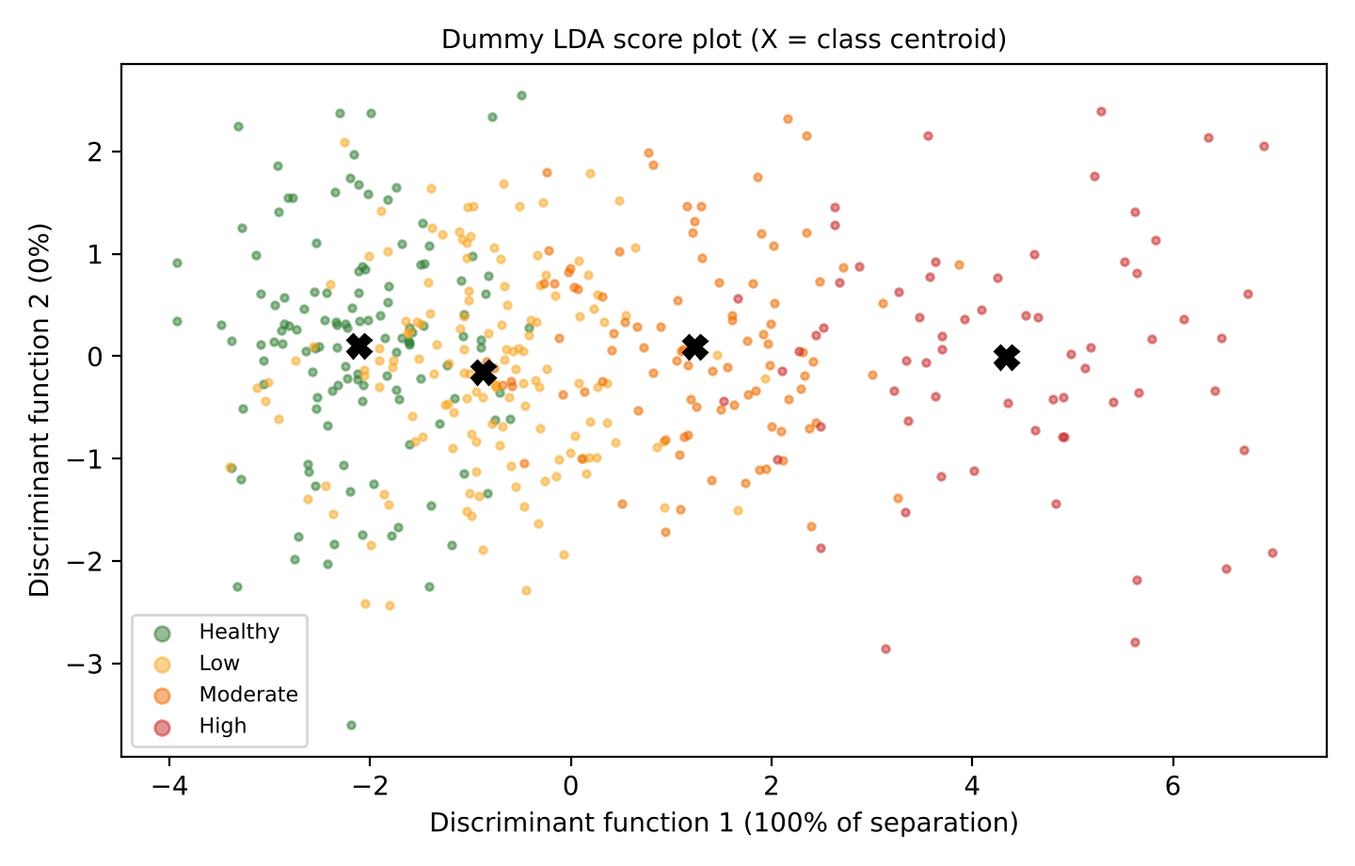
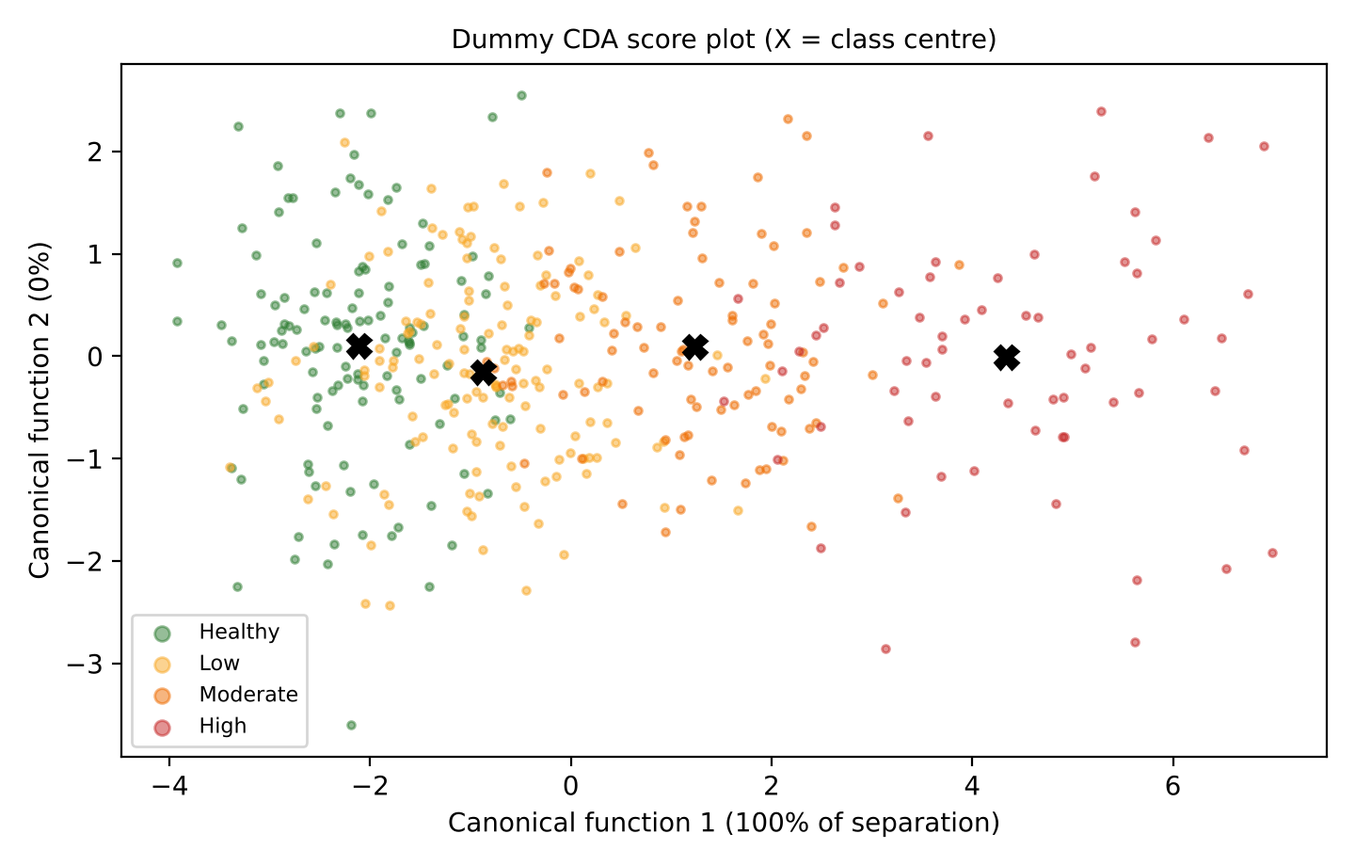
Use stepwise canonical discriminant analysis (CDA) naming in Step 1.5
Claude-Session: https://claude.ai/code/session_0128NVEiaLXPTL1RNqi5Ud7D

diff --git a/thesis_build/final/f_body.js b/thesis_build/final/f_body.js
@@ -3,7 +3,7 @@ K.push(new Paragraph({ alignment: AlignmentType.CENTER, spacing: { before: 900, 
 K.push(new Paragraph({ alignment: AlignmentType.CENTER, spacing: { after: 120 }, children: [new TextRun({ text: 'Final step-wise methodology', font: FONT, size: 30, color: '2C5F2D' })] }));
 K.push(new Paragraph({ alignment: AlignmentType.CENTER, spacing: { after: 500 }, children: [new TextRun({ text: 'Ph.D. (Agricultural Physics), ICAR-IARI  |  UAV RGB, multispectral, hyperspectral and thermal data  |  4-class severity classification and disease-index regression', font: FONT, size: 20, italics: true, color: '555555' })] }));
 K.push(NOTE(`**How each step is written.** Every step has the same parts: **Position** (which step it comes after and which step uses its output), **Concept**, **Why it is needed at this position**, **Importance and justification** (why this method, with references), **How it is done**, **How it is used with my data**, a **figure or table with dummy data**, the **Output**, **Notes** on other methods with references, **Interview questions**, and **References** for the step. Dummy data only illustrate what the results will look like; they are not results.`));
-K.push(KEY('The methodology in two minutes:', `White rust changes pigments, leaf structure, water status, transpiration and canopy texture; each UAV sensor sees part of this. **Common steps** build a pooled table of plot-dates from a 72-plot field experiment, with the disease index (DI) and four classes: **Healthy (DI = 0), Low (0 < DI ≤ 25%), Moderate (25 < DI ≤ 50%), High (DI > 50%)**. **Objective 1** finds, for each sensor, the features that respond to white rust: ANOVA and correlation with DI, a hyperspectral correlation scalogram with ReliefF, a White Rust Index, a stepwise discriminant analysis between the classes, and Boruta, giving disease-specific feature (DSF) pools for classification and for DI regression. **Objective 2** reduces each pool with VIF and ML-SFFS and compares six models on each sensor and on four sensor combinations (ML-SFFS fusion and two deep-learning fusions). **Objective 3** repeats the classification with data from before symptoms. Every selection and tuning step is done inside training replications (leave-one-replication-out), and the final models are tested at Bharatpur and in farmers' fields.`));
+K.push(KEY('The methodology in two minutes:', `White rust changes pigments, leaf structure, water status, transpiration and canopy texture; each UAV sensor sees part of this. **Common steps** build a pooled table of plot-dates from a 72-plot field experiment, with the disease index (DI) and four classes: **Healthy (DI = 0), Low (0 < DI ≤ 25%), Moderate (25 < DI ≤ 50%), High (DI > 50%)**. **Objective 1** finds, for each sensor, the features that respond to white rust: ANOVA and correlation with DI, a hyperspectral correlation scalogram with ReliefF, a White Rust Index, a stepwise canonical discriminant analysis (CDA) between the classes, and Boruta, giving disease-specific feature (DSF) pools for classification and for DI regression. **Objective 2** reduces each pool with VIF and ML-SFFS and compares six models on each sensor and on four sensor combinations (ML-SFFS fusion and two deep-learning fusions). **Objective 3** repeats the classification with data from before symptoms. Every selection and tuning step is done inside training replications (leave-one-replication-out), and the final models are tested at Bharatpur and in farmers' fields.`));
 K.push(new TableOfContents('Contents', { hyperlink: true, headingStyleRange: '1-2' }));
 K.push(new Paragraph({ children: [new PageBreak()] }));
 
@@ -27,7 +27,7 @@ K.push(...tab2('choice', [
   ['Univariate statistics', 'One-way ANOVA + Tukey HSD; Pearson r with DI', 't-test only (Zhang 2012a; Tian 2021); Dunnett test (Liu 2024)', 'Four classes need a multi-group test; ANOVA + Tukey is the standard, easily explained choice in agricultural research (Gomez and Gomez 1984)'],
   ['HS band selection', 'Correlation scalogram + ReliefF; one band per correlated region', 'Separability scalogram (Tian 2021); SPA (Zhu 2017); PCA/PLSR loadings (Shukla 2024)', 'Classes overlap: a DI-based scalogram needs no class limits (regression) and ReliefF is built for overlapping multi-class data (classification); used for mustard (Shukla 2024) and severity (Meng 2020)'],
   ['Disease index', 'White Rust Index (ND + wR)', 'General indices only; ROTI (Bhattacharya 2013); RBI (Mandal 2023)', 'Disease-specific index reduces confusion with other stresses (Mahlein 2013)'],
-  ['Class discrimination', 'Two-step stepwise discriminant analysis (LDA)', 'FLDA (Zhang 2012a); CART + JM (Das 2020)', 'Mustard precedent (Bhattacharya 2013); simple, interpretable functions and a score plot of the classes'],
+  ['Class discrimination', 'Two-step stepwise canonical discriminant analysis (CDA)', 'FLDA (Zhang 2012a); CART + JM (Das 2020)', 'Mustard precedent (Bhattacharya 2013); simple, interpretable functions and a score plot of the classes'],
   ['Relevant features', 'Boruta per sensor and task', 'RFE (Liu 2024); correlation filter (Guo 2021)', 'All-relevant, non-linear, statistically tested (Kursa and Rudnicki 2010; Mustafa 2023)'],
   ['Optimum subset', 'VIF < 10 → ML-SFFS', 'SPA (Huang 2020); full feature set', 'Removes redundancy then finds compact subsets; 2–4 features were enough in Tian 2021'],
   ['Models', 'SVM/SVR, RF/RFR, k-NN, PLSR, DNN-F1, DNN-F2', 'BPNN, ELM, LS-SVM (Zhu 2017); MARS (Mandal 2023); 3D-CNN (Nguyen 2023)', 'Cover kernel, tree, instance, linear and deep families; all used in the core papers'],
@@ -43,7 +43,7 @@ K.push(...tab2('overlaptab', [
   ['Ground truth', 'Five sampling points per plot, same trained scorer, explicit class limits (0 < DI ≤ 25, 25 < DI ≤ 50, DI > 50) to reduce label noise near the limits', 'A2', 'Rater error in visual severity (Bock et al., 2010); DI from a multi-point survey (Liu et al., 2024)'],
   ['Feature screening', 'Correlation with continuous DI instead of class-separability thresholds, so no class limit is needed', '1.2, 1.3', 'Correlation with severity (Shukla et al., 2024; Guo et al., 2021); thresholds suit only non-overlapping stages (Tian et al., 2021)'],
   ['Disease-specific feature', 'White Rust Index built for white rust rather than general greenness', '1.4', 'Disease indices improved severity classification by 8.3% over the best published index (Meng et al., 2020; Mahlein et al., 2013)'],
-  ['Multivariate separation', 'Discriminant analysis combines several features into functions that separate classes better than any single feature', '1.5', 'Stepwise discriminant analysis for mustard rot classes (Bhattacharya and Chattopadhyay, 2013); FLDA for three severity levels (Zhang et al., 2012a)'],
+  ['Multivariate separation', 'Canonical discriminant analysis combines several features into functions that separate classes better than any single feature', '1.5', 'Stepwise discriminant analysis for mustard rot classes (Bhattacharya and Chattopadhyay, 2013); FLDA for three severity levels (Zhang et al., 2012a)'],
   ['Complementary information', 'Combining feature types and sensors (spectra, derivatives, texture, temperature) through ML-SFFS fusion and DNN fusion', '2.1, 2.3', 'Combining feature types improved severity classification by about 7% (Lv et al., 2023); fusion raised accuracy (Feng et al., 2022; Mahlein et al., 2019)'],
   ['Models suited to overlap', 'Soft-margin SVM (C tolerates overlapping samples), RF and k-NN; class weights for unequal classes', '2.2', 'Cortes and Vapnik (1995); Breiman (2001); macro-F1 and class weighting (Lv et al., 2023)'],
   ['Regression alongside classification', 'DI regression gives a continuous estimate; classes derived from predicted DI are compared with direct classification', '2.3, 2.4', 'DI regression of disease severity (Liu et al., 2024; Guo et al., 2021; Feng et al., 2022)'],
@@ -154,7 +154,7 @@ FSTEP({ title: 'Step 1.2. Univariate response of every feature to the four class
  refs: `Gomez and Gomez (1984); Tukey (1949); Zhang et al. (2012a); Liu et al. (2024).` });
 
 FSTEP({ title: 'Step 1.3. Hyperspectral band-level analysis',
- pos: `After Step 1.1 (HS band features), HS only; before Steps 1.4 (ReliefF ranking reused for the White Rust Index), 1.5 (band step of the discriminant analysis) and 1.6 (Boruta).`,
+ pos: `After Step 1.1 (HS band features), HS only; before Steps 1.4 (ReliefF ranking reused for the White Rust Index), 1.5 (band step of the CDA) and 1.6 (Boruta).`,
  concept: `Two complementary band rankings are made. A **correlation scalogram** plots Pearson's r between DI and the reflectance (and first and second derivative) at every wavelength, showing which regions change steadily with severity. **ReliefF** gives every band a weight for how well it separates neighbouring samples of different classes (Healthy, Low, Moderate, High). Neighbouring bands are almost identical, so from each list only **one band per correlated region** is kept.`,
  need: `1443 band features cannot enter a discriminant analysis or a model directly: they are redundant and outnumber the plots.`,
  just: `The severity classes are cuts of a continuous DI and overlap. A DI-based correlation needs no class limits and serves DI regression; ReliefF is designed for noisy, overlapping, multi-class data and serves classification (Kononenko, 1994; Robnik-Šikonja and Kononenko, 2003). Separability scalograms (Tian et al., 2021) need two well-separated classes, SPA (Zhu et al., 2017) selects bands for low collinearity rather than disease response, and PCA loadings follow overall spectral variance rather than disease, so they fit this situation less well. Keeping one band per region follows Tian et al. (2021) and Bhattacharya and Chattopadhyay (2013).`,
@@ -218,18 +218,18 @@ FSTEP({ title: 'Step 1.4. White Rust Index (WRI)',
  qs: [[`How is your WRI different from NDVI?`, `NDVI responds to any loss of greenness; the WRI is searched specifically to separate white-rust plots from healthy ones.`], [`Why a 50 nm minimum distance?`, `Neighbouring bands are almost identical, so their difference would carry little information (Mahlein et al., 2013).`]],
  refs: `Mahlein et al. (2013); Meng et al. (2020); Mandal et al. (2023); Bhattacharya and Chattopadhyay (2013).` });
 
-FSTEP({ title: 'Step 1.5. Class discrimination: stepwise canonical discriminant analysis',
- pos: `After Steps 1.3 and 1.4 (robust bands and WRI); in parallel with Step 1.6. It describes how well each sensor separates the four classes and which features drive the separation.`,
- concept: `**Linear discriminant analysis** (LDA) finds combinations of features — discriminant functions — that separate the four classes as much as possible (Fisher, 1936). In the stepwise form, features are added one at a time and kept only if they improve the separation (measured by **Wilks' lambda**: 0 = classes fully separated, 1 = not separated); the **canonical correlation** (0–1) says how strongly a function is linked to the classes.`,
- need: `Univariate tests look at one feature at a time; discrimination between the four classes is a multivariate question.`,
- just: `This is Stage III of the mustard rot study of Bhattacharya and Chattopadhyay (2013): a first stepwise analysis on band reflectances, then a second on indices, ranked by canonical correlation. Fisher LDA also discriminated powdery-mildew severity levels (Zhang et al., 2012a).`,
- papers: [`Bhattacharya and Chattopadhyay (2013): two-step stepwise canonical discriminant analysis — 25 Hyperion bands, then indices (ROTI, DRI, DWSI) — for mustard rot classes.`, `Zhang et al. (2012a): Fisher LDA for three powdery-mildew severity levels (> 90% for heavy damage).`, `Tian et al. (2021): LDA as one of the ML-SFFS classifiers.`],
- how: [`HS: step 1 on the robust bands of Step 1.3; step 2 on indices, red-edge parameters and WRI (after VIF < 10). MS, RGB, TIR: one step on their features after VIF.`, `Features enter if they improve separation significantly (p < 0.05) and leave if they no longer do (p > 0.10); fitted in training replications; accuracy by LORO.`, `Outputs: the selected features, canonical correlation, the score plot of the classes and the cross-validated accuracy.`],
- mine: `With the dummy HS features the first function had canonical correlation ${DUM.cda.can[0]}, Wilks' lambda ${DUM.cda.wilks} and cross-validated accuracy ${DUM.cda.acc}; in the score plot Healthy and Low overlap while High is clearly separate.`,
- vis: [TAB('cda', __CDA__), FIG('cdaf', 'm9_cda.png', 'Dummy canonical score plot of the four classes (X = class centroid).', 420)],
- out: `For each sensor: the features that separate the classes, the canonical correlation, a score plot and the cross-validated accuracy (a simple linear benchmark for Objective 2).`,
+FSTEP({ title: 'Step 1.5. Class discrimination: stepwise canonical discriminant analysis (CDA)',
+ pos: `After Steps 1.3 and 1.4 (robust bands and WRI); in parallel with Step 1.6. It describes how well each sensor separates the four classes, which features drive the separation and where the classes overlap.`,
+ concept: `**Canonical discriminant analysis (CDA)** finds canonical (discriminant) functions — weighted sums of features, z = w_{1}x_{1} + … + w_{k}x_{k} — chosen so that the four class means are as far apart as possible relative to the spread inside each class (Fisher, 1936); with four classes there are at most three functions, and the first usually acts as a severity axis. In the **stepwise** form features are added one at a time and kept only if they improve the separation, measured by **Wilks' lambda** (0 = classes fully separated, 1 = not separated); the **canonical correlation** (0–1) says how strongly a function is linked to the classes. CDA and LDA are the same Fisher method: CDA is the descriptive side (functions, canonical correlation, score plot), LDA the classification side; the classification rule of the same functions gives the accuracy.`,
+ need: `Steps 1.2 and 1.6 look at features one by one; separation of the four classes by features acting together is a multivariate question, and Objective 1 needs a description of it before machine learning.`,
+ just: `This is Stage III of the mustard rot study of Bhattacharya and Chattopadhyay (2013, SAC-ISRO), who used a two-step stepwise canonical discriminant analysis: first on band reflectances, then on indices, ranked by canonical correlation. CDA gives what no other step of Objective 1 gives: one comparable separability value per sensor, an interpretable severity axis (feature weights) and a picture of class overlap (score plot), plus a linear baseline accuracy for Objective 2. Fisher's discriminant analysis also separated powdery-mildew severity levels (Zhang et al., 2012a).`,
+ papers: [`Bhattacharya and Chattopadhyay (2013): two-step stepwise canonical discriminant analysis — 25 Hyperion bands (canonical correlation > 0.5), then indices (ROTI, DRI, DWSI-1, DWSI-4; > 0.8) — for mustard rot classes.`, `Zhang et al. (2012a): Fisher discriminant analysis for three powdery-mildew severity levels (> 90% for heavy damage).`, `Tian et al. (2021): linear discriminant classifier as one of the ML-SFFS classifiers.`],
+ how: [`Input (training replications): HS — robust bands of Step 1.3, then indices, red-edge parameters and WRI; MS, RGB, TIR — their own features. Standardised; VIF < 10 removes near-duplicates (CDA cannot handle them).`, `Groups: Healthy, Low, Moderate, High; equal prior weight for every class.`, `HS step 1 (bands) and step 2 (indices + WRI): stepwise entry of the feature that most reduces Wilks' lambda (p < 0.05), removal of features that no longer contribute (p > 0.10). MS, RGB, TIR: one stepwise step each.`, `Read: canonical correlation of function 1, Wilks' lambda, feature weights (direction of the severity axis), score plot with class centres.`, `Accuracy: the held-out replication is classified by the same functions (nearest class centre) → confusion matrix and accuracy (linear baseline for Objective 2).`],
+ mine: `With the dummy HS features the first function had canonical correlation ${DUM.cda.can[0]}, Wilks' lambda ${DUM.cda.wilks} and cross-validated accuracy ${DUM.cda.acc}; its weights rise with the WRI and fall with PSSRa, REP and DWSI-1 (a white-rust severity axis), and in the score plot Healthy and Low overlap while High is clearly separate.`,
+ vis: [TAB('cda', __CDA__), FIG('cdaf', 'm9_cda.png', 'Dummy CDA score plot of the four classes on the first two canonical functions (X = class centre).', 420)],
+ out: `For each sensor: the discriminating features, canonical correlation, Wilks' lambda, feature weights, score plot and the held-out accuracy of the discriminant functions (a linear baseline for Objective 2).`,
  notes: [`**JM distance** between pairs of classes (Das et al., 2020; Mandal et al., 2023).`, `**PLS discriminant analysis** (Barker and Rayens, 2003).`, `**Regularised or quadratic discriminant analysis** (Friedman, 1989; Das et al., 2020).`, `**t-SNE/UMAP** visualisation (Ramalingam et al., 2026).`],
- qs: [[`What does Wilks' lambda mean?`, `The share of variance not explained by class differences; near 0 = well separated classes.`], [`Why is Healthy–Low hardest?`, `Low plots have few pustules, so their spectra are close to healthy; their points overlap in the score plot.`]],
+ qs: [[`CDA or LDA — what is the difference?`, `They are the same Fisher method: CDA describes the separation (canonical functions, canonical correlation, Wilks' lambda, score plot); LDA uses the same functions to classify. I use CDA in Objective 1 and report its classification accuracy as a baseline.`], [`What does Wilks' lambda mean?`, `The share of variance not explained by class differences; near 0 = well-separated classes.`], [`Why is this step needed if Boruta and ANOVA are done?`, `They look at features one by one; CDA shows how well a sensor separates the four classes when features act together, which combination forms the severity axis and where classes overlap.`], [`Why is Healthy–Low hardest?`, `Low plots have few pustules, so their spectra are close to healthy; their points overlap in the score plot.`]],
  refs: `Fisher (1936); Bhattacharya and Chattopadhyay (2013); Zhang et al. (2012a).` });
 
 FSTEP({ title: 'Step 1.6. Disease-specific feature pools (Boruta) and cross-sensor comparison',
@@ -404,7 +404,7 @@ K.push(...tab2('summary', [
   ['1.2', 'One-way ANOVA + Tukey HSD; Pearson r; physiology', 'Responding features', 'Gomez 1984; Liu 2024'],
   ['1.3', 'Correlation scalogram + ReliefF; one band per region; common / task-specific bands', 'Robust bands', 'Shukla 2024; Meng 2020'],
   ['1.4', 'White Rust Index', 'WRI', 'Mahlein 2013'],
-  ['1.5', 'Two-step stepwise discriminant analysis (LDA)', 'Class separation per sensor', 'Bhattacharya 2013'],
+  ['1.5', 'Two-step stepwise canonical discriminant analysis (CDA)', 'Class separation per sensor', 'Bhattacharya 2013'],
   ['1.6', 'Boruta; cross-sensor correlation', '8 DSF pools', 'Mustafa 2023'],
   ['2.1', 'VIF < 10 → ML-SFFS', 'OFC per model', 'Tian 2021; Mustafa 2023'],
   ['2.2', 'SVM/SVR, RF/RFR, k-NN, PLSR, DNN-F1, DNN-F2', 'Tuned models', 'Maimaitijiang 2020'],

diff --git a/thesis_build/final/f_isro.js b/thesis_build/final/f_isro.js
@@ -45,11 +45,11 @@ QA3('How do you separate disease from water or nutrient stress?',
  'Zhang et al. (2012b) found that only PhRI responded to yellow rust but not to nutrient stress; Bhattacharya and Chattopadhyay (2013) used the TVDI–NDWI space (canopy stress without soil-moisture stress = rot); Mahlein et al. (2013) designed indices that separate three sugar-beet diseases.');
 QA3('Your severity classes overlap. How do you discriminate them?',
  'Classes cut from a continuous DI overlap near their limits, so methods that require non-overlapping classes fail.',
- 'I use a correlation scalogram against DI (no class limits) with ReliefF (designed for overlapping classes), a disease-specific White Rust Index, a two-step stepwise discriminant analysis following Stage III of Bhattacharya and Chattopadhyay (2013), DI regression in parallel, and macro-F1 to show per-class performance.',
+ 'I use a correlation scalogram against DI (no class limits) with ReliefF (designed for overlapping classes), a disease-specific White Rust Index, a two-step stepwise canonical discriminant analysis (CDA) following Stage III of Bhattacharya and Chattopadhyay (2013), DI regression in parallel, and macro-F1 to show per-class performance.',
  'Tian et al. (2021) used separability thresholds, which suit non-overlapping stages; Meng et al. (2020) reached only 70% for three severity levels with ReliefF indices; Lv et al. (2023) improved severity classification by about 7% by combining features with ReliefF + SFFS; Mandal et al. (2023) used JM and found two adjacent blast levels inseparable.');
 QA3('How do you discriminate between disease classes statistically?',
  'Discriminant analysis finds linear combinations of features that maximise between-class relative to within-class variance (Fisher, 1936); stepwise selection by Wilks\' lambda keeps the features that add separation.',
- 'Step 1.5 uses the two-step design: a stepwise canonical discriminant analysis first on the robust bands of Step 1.3 and then on the indices (including the WRI), reporting Wilks\' lambda, the canonical correlation, a score plot and cross-validated accuracy.',
+ 'Step 1.5 uses the two-step design: a stepwise canonical discriminant analysis (CDA) first on the robust bands of Step 1.3 and then on the indices (including the WRI), reporting Wilks\' lambda, the canonical correlation, a score plot and cross-validated accuracy.',
  'Bhattacharya and Chattopadhyay (2013) used this design on Hyperion data for mustard rot; Zhang et al. (2012a) used Fisher LDA for three powdery-mildew levels; Shukla et al. (2024) discriminated aphid grades with PCA/PLSR loading weights; Das et al. (2020) used CART, JM and QDA.');
 QA3('How do you label plots before symptoms appear?',
  'Before symptoms DI = 0 everywhere, so the true state of an inoculated plot is unknown at the time of the flight.',

diff --git a/thesis_build/final/f_fig.py b/thesis_build/final/f_fig.py
@@ -49,7 +49,7 @@ for x, k, t in zip([0.25, 2.95, 5.65, 8.35], ['RGB', 'MS', 'HS', 'TIR'], ['RGB',
     head(ax, x, 12.95, 2.4, 0.5, t, COL[k]); arrow(ax, x + 1.2, 12.95, x + 1.2, 12.68)
 box(ax, 0.25, 10.75, 10.5, 1.9, 'COMMON STEPS  A1–A4', ['A1 Experiment: 72 plots (4 inoculation timings × 3 varieties × 2 doses × 3 replications)', 'A2 Ground truth: DI (%) → classes Healthy (0), Low (0–25], Moderate (25–50], High (> 50); tasks C (4 classes) and R (DI)', 'A3 Pre-processing: orthomosaics, reflectance / temperature calibration, canopy mask, plot-mean features', 'A4 Pooled plot-date table; leave-one-replication-out validation (all dates of a plot kept together)'], '#EEF3E8', '#2C5F2D', 10.5, 8.6)
 arrow(ax, 5.5, 10.75, 5.5, 10.45)
-box(ax, 0.25, 7.55, 10.5, 2.85, 'OBJECTIVE 1  Characterise white rust (each sensor)', ['1.1 Feature extraction: HS 481 bands + FD + 39 indices + red edge; MS bands + 12 indices + texture;', '      RGB texture, colour, cover; TIR CT, CTD, CTR, NRCT, MTD, texture', '1.2 Univariate response: one-way ANOVA + Tukey HSD across 4 classes; Pearson r with DI; physiology', '1.3 HS band level: correlation scalogram (R, FD, SD vs DI) + ReliefF (4 classes); one band per correlated region', '1.4 White Rust Index (ReliefF + exhaustive search, Mahlein 2013)', '1.5 Class discrimination: two-step stepwise discriminant analysis (Bhattacharya 2013)', '1.6 Disease-specific features (DSF): Boruta for C and R → 8 DSF pools; cross-sensor correlation'], '#E3F2FD', '#1565C0', 10.5, 8.5)
+box(ax, 0.25, 7.55, 10.5, 2.85, 'OBJECTIVE 1  Characterise white rust (each sensor)', ['1.1 Feature extraction: HS 481 bands + FD + 39 indices + red edge; MS bands + 12 indices + texture;', '      RGB texture, colour, cover; TIR CT, CTD, CTR, NRCT, MTD, texture', '1.2 Univariate response: one-way ANOVA + Tukey HSD across 4 classes; Pearson r with DI; physiology', '1.3 HS band level: correlation scalogram (R, FD, SD vs DI) + ReliefF (4 classes); one band per correlated region', '1.4 White Rust Index (ReliefF + exhaustive search, Mahlein 2013)', '1.5 Class discrimination: two-step stepwise canonical discriminant analysis, CDA (Bhattacharya 2013)', '1.6 Disease-specific features (DSF): Boruta for C and R → 8 DSF pools; cross-sensor correlation'], '#E3F2FD', '#1565C0', 10.5, 8.5)
 arrow(ax, 5.5, 7.55, 5.5, 7.25)
 box(ax, 0.25, 4.4, 10.5, 2.8, 'OBJECTIVE 2  Classify and estimate severity by multimodal fusion', ['2.1 Optimum features: VIF < 10 → ML-SFFS (criterion macro-F1 for C, RMSE for R)', '2.2 Six models: SVM/SVR, RF/RFR, k-NN, PLSR (R only), DNN-F1, DNN-F2', '2.3 Single sensors S1–S4 vs combinations S5 RGB+TIR, S6 MS+TIR, S7 HS+TIR, S8 all four', '      Fusion: ML-SFFS feature-level fusion and DNN-F1 / DNN-F2', '2.4 Evaluation: OA, kappa, macro-F1, confusion matrix | R², RMSE, NRMSE', '2.5 Maps of class and DI      2.6 Independent validation (Bharatpur, farmers\' fields)'], '#FCE4EC', '#AD1457', 10.5, 8.5)
 arrow(ax, 5.5, 4.4, 5.5, 4.1)
@@ -209,8 +209,8 @@ fig, ax0 = plt.subplots(figsize=(7.2, 4.6))
 for k in range(4):
     ax0.scatter(Zs[cls == k, 0], Zs[cls == k, 1], s=8, color=CC[k], alpha=0.5, label=CL[k])
     ax0.plot(Zs[cls == k, 0].mean(), Zs[cls == k, 1].mean(), 'X', color='black', ms=9)
-ax0.set_xlabel('Discriminant function 1 (%.0f%% of separation)' % (100 * ev[0])); ax0.set_ylabel('Discriminant function 2 (%.0f%%)' % (100 * ev[1]))
-ax0.legend(fontsize=8, markerscale=2); ax0.set_title('Dummy LDA score plot (X = class centroid)', fontsize=10)
+ax0.set_xlabel('Canonical function 1 (%.0f%% of separation)' % (100 * ev[0])); ax0.set_ylabel('Canonical function 2 (%.0f%%)' % (100 * ev[1]))
+ax0.legend(fontsize=8, markerscale=2); ax0.set_title('Dummy CDA score plot (X = class centre)', fontsize=10)
 def jm(a, b):
     m1, m2 = a.mean(0), b.mean(0); S1, S2 = np.cov(a.T), np.cov(b.T); S = (S1 + S2) / 2
     B = 0.125 * (m1 - m2) @ np.linalg.solve(S, m1 - m2) + 0.5 * np.log(np.linalg.det(S) / np.sqrt(np.linalg.det(S1) * np.linalg.det(S2)))

diff --git a/thesis_build/final/f_assemble.py b/thesis_build/final/f_assemble.py
@@ -56,8 +56,8 @@ cda = [['Quantity', 'Dummy value (HS features PSSRa, REP, WRI, DWSI-1)'],
        ['Canonical correlation of function 1 (0–1)', str(c['can'][0])],
        ["Wilks' lambda (0 = separated, 1 = not separated)", str(c['wilks'])],
        ['Weights of the features on function 1', '; '.join('%s %s' % (r[0].split(' (')[0], r[1]) for r in c['coef'])],
-       ['Cross-validated accuracy of LDA', str(c['acc'])]]
-CDA = rows(cda) + ", [3200, 6106], 'Dummy output of the canonical discriminant analysis and JM distances.', 16"
+       ['Held-out accuracy of the discriminant functions', str(c['acc'])]]
+CDA = rows(cda) + ", [3200, 6106], 'Dummy output of the canonical discriminant analysis (CDA).', 16"
 vif = [['Iteration', 'VIF of each feature', 'Action']] + [[str(i + 1), r[0], r[1]] for i, r in enumerate(DUM['vif'])]
 VIF = rows(vif) + ", [1100, 6000, 2206], 'Dummy VIF iterations on a hyperspectral DSF pool (computed on simulated data).', 16"
 cm = DUM['cm']

diff --git a/thesis_build/THESIS_MEMORY.md b/thesis_build/THESIS_MEMORY.md
@@ -42,7 +42,7 @@ Objective 1:
   - **Vegetation indices are NOT screened in Step 1.3** (it is only for raw bands R/FD/SD). The 39 indices, red-edge parameters and WRI go directly to Step 1.2 (ANOVA, r), Step 1.5 (second discriminant step) and Step 1.6 (Boruta, with the robust bands).
   - Why not alternatives: separability scalogram (Tian 2021) needs two well-separated classes; SPA (Zhu 2017) picks low-collinearity bands, not disease response, depends on start band, tied to MLR; PCA loadings follow overall variance (structure, illumination, flowering); PLSR loadings subjective peak picking, Shukla's bands not linked to known absorption features. Scalogram = Shukla 2024's own first step (same crop); ReliefF used by Mahlein 2013, Meng 2020 (3-level severity), Lv 2023.
 - 1.4 White Rust Index: ND(λ1,λ2) + w·R(λ3), w ∈ {−1,−0.5,0,0.5,1}; 450–950 nm at 6 nm, ReliefF top 25% of bands and NDs, ≥ 50 nm apart (Mahlein 2013); balanced accuracy healthy vs diseased; repeat with SWIR; keep better.
-- 1.5 Class discrimination: **two-step stepwise LDA (Stage III, Bhattacharya and Chattopadhyay 2013)** — step 1 robust bands, step 2 indices + WRI (after VIF); output canonical correlation, Wilks' lambda (one sentence), score plot, LORO accuracy. JM only in notes.
+- 1.5 Class discrimination: **two-step stepwise canonical discriminant analysis (CDA) (Stage III, Bhattacharya and Chattopadhyay 2013)** — user chose the name CDA (CDA = descriptive side, LDA = classification side of the same Fisher method; CDA in Obj. 1, its classification accuracy reported as linear baseline). Kept in Objective 1 because it gives per-sensor multivariate separability, a severity axis (weights) and a class-overlap score plot that no other step gives. — step 1 robust bands, step 2 indices + WRI (after VIF); output canonical correlation, Wilks' lambda (one sentence), score plot, LORO accuracy. JM only in notes.
 - 1.6 DSF pools: **Boruta** per sensor for classification and regression → 8 pools; cross-sensor correlation matrix.
 
 Objective 2:
